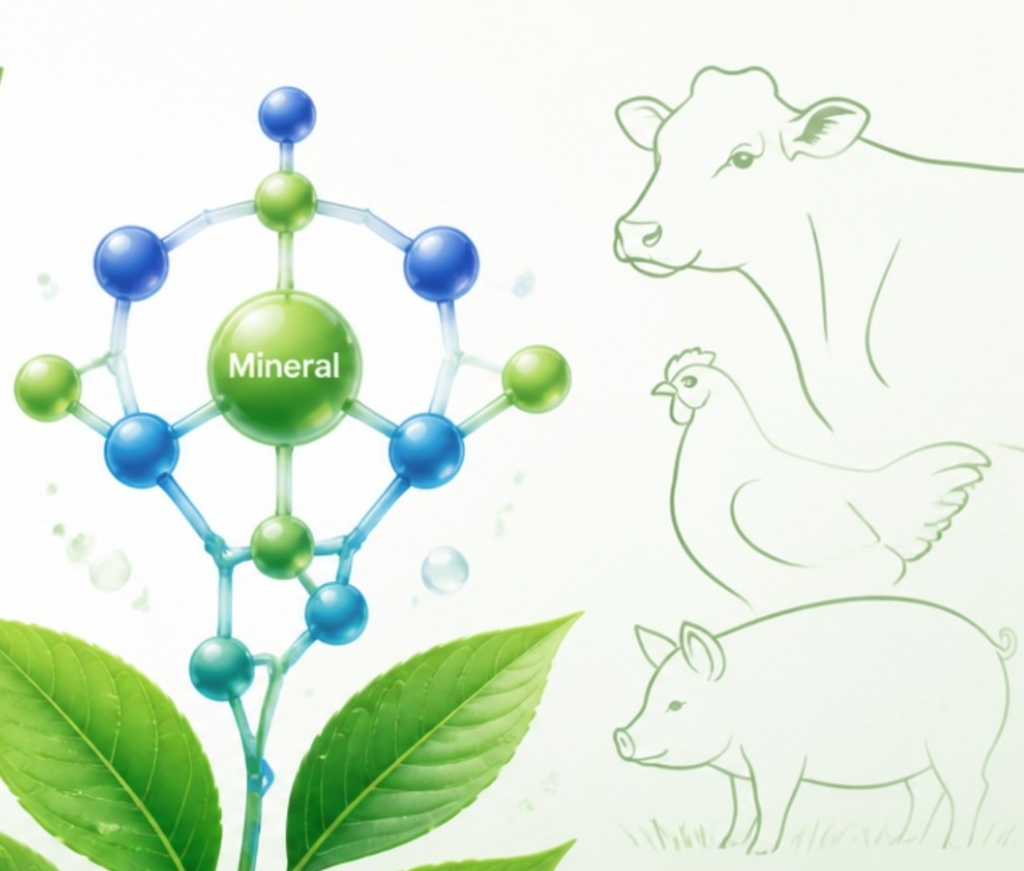
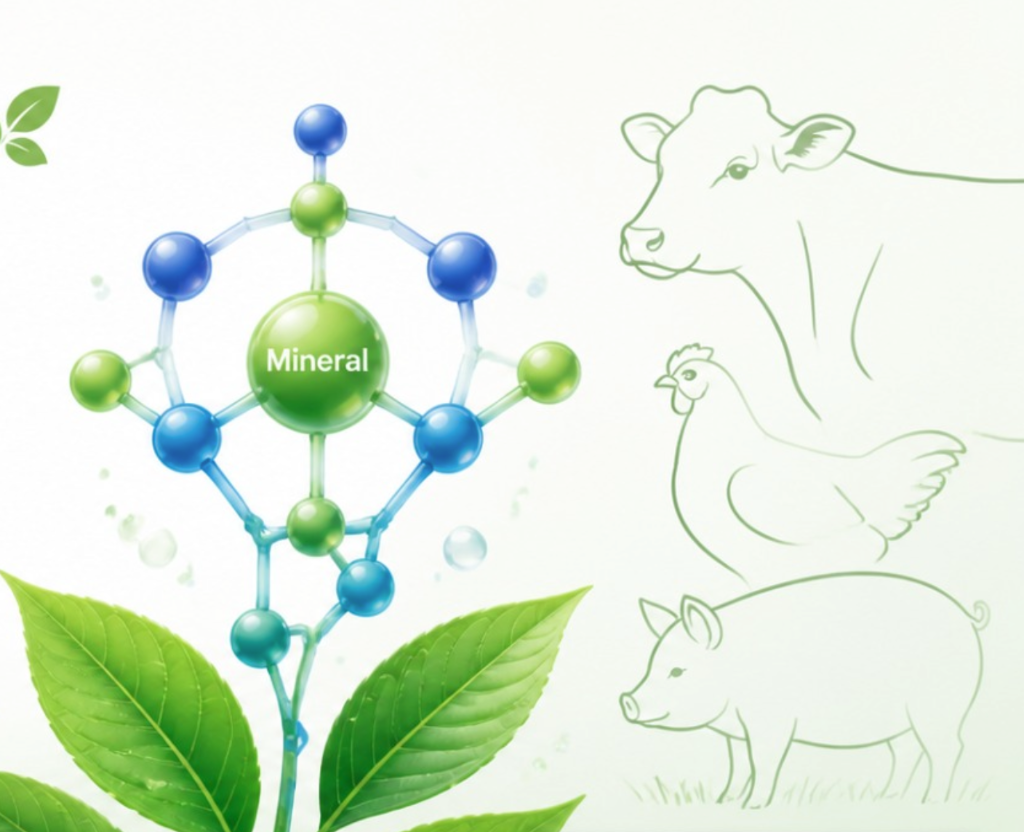
Update delivery supply chain image & content, update research uncropped images & fix card layout gap, swap MethioWiz and CholiWiz images

diff --git a/src/app/research/page.tsx b/src/app/research/page.tsx
@@ -33,7 +33,7 @@ const researchTopics: ResearchTopic[] = [
     challenge: "Modern feed industries demand high bioavailability, consistent efficacy, low residue, and sustainable manufacturing. Conventional extraction methods often fall short, leaving bioactives trapped, relying on toxic solvents, and wasting valuable phytochemical potential.",
     advantage: "Uses nutrient media with natural hydrogen-bond donors and acceptors (deep eutectic solvents) to mimic and accelerate natural biological transformations. This liberates hidden bioactive compounds without relying on toxic organic solvents.",
     recognition: "BIRAC / DBT ecosystem, and the Technology Development Board (TDB), Government of India.",
-    banner: "/images/anbiot.jpg"
+    banner: "/images/anbiot.png"
   },
   {
     id: 2,
@@ -45,7 +45,7 @@ const researchTopics: ResearchTopic[] = [
     advantage: "Employs plant and animal derived hydroxy amino acids as a natural ligand base. Combined with deep eutectic solvents, this green chelation workflow completely avoids downstream effluent generation while delivering superior diet stability.",
     recognition: "Technology Development Board (TDB), Govt. of India.",
     applications: "Poultry, dairy, and swine diets to maximize bioavailability.",
-    banner: "/images/green_technology.jpg"
+    banner: "/images/green_technology.png"
   },
   {
     id: 3,
@@ -121,7 +121,7 @@ export default function ResearchPage() {
               Research & Development
             </span>
             <h1 className="font-heading text-4xl lg:text-5xl font-bold leading-tight mb-4 text-white">
-              Biotechnology And Chemistry <span className="text-teal-400">Research Pipelines</span>
+              Synergy In Action: <br /><span className="text-teal-400">Animal Nutrition, Biotechnology & Chemistry</span>
             </h1>
             <p className="text-white/85 text-lg lg:text-xl leading-relaxed max-w-3xl font-light">
               Science-backed studies and platforms formulated for superior bioavailability, green chelation, and stable animal nutrition.
@@ -167,7 +167,7 @@ export default function ResearchPage() {
             </div>
 
             {/* Research Grid */}
-            <div className="grid grid-cols-1 sm:grid-cols-2 lg:grid-cols-3 gap-8 items-stretch">
+            <div className="grid grid-cols-1 sm:grid-cols-2 lg:grid-cols-3 gap-8 items-start">
               {filteredTopics.map((topic) => {
                 const isExpanded = expandedId === topic.id;
                 const emailSubject = encodeURIComponent(`Collaboration Inquiry: ${topic.title}`);
@@ -181,24 +181,24 @@ export default function ResearchPage() {
                     key={topic.id}
                     layout
                     transition={{ duration: 0.4, ease: easeOut }}
-                    className="border-2 border-slate-200 rounded-2xl bg-slate-50/50 hover:bg-slate-50/85 transition-colors duration-300 overflow-hidden shadow-xs hover:border-brand-orange/40 flex flex-col h-full group"
+                    className="border-2 border-slate-200 rounded-2xl bg-slate-50/50 hover:bg-slate-50/85 transition-colors duration-300 overflow-hidden shadow-xs hover:border-brand-orange/40 flex flex-col group"
                   >
                     {/* Card Header (Image/Banner + Title) */}
                     <div
                       onClick={() => toggleExpand(topic.id)}
-                      className="cursor-pointer select-none flex flex-col h-full flex-grow"
+                      className="cursor-pointer select-none flex flex-col"
                     >
-                      {/* Top: Product Image or Icon Container */}
-                      <div className="w-full aspect-video relative overflow-hidden bg-slate-100 border-b border-slate-200">
+                      {/* Top: Product Image or Icon Container - Full Uncropped View */}
+                      <div className="w-full aspect-[4/3] relative overflow-hidden bg-white border-b border-slate-200 p-3 flex items-center justify-center">
                         <img
                           src={topic.banner}
                           alt={`${topic.title} banner`}
-                          className="absolute inset-0 w-full h-full object-cover object-center group-hover:scale-102 transition-transform duration-500"
+                          className="w-full h-full object-contain object-center group-hover:scale-105 transition-transform duration-500"
                         />
                       </div>
 
                       {/* Content: Title */}
-                      <div className="p-6 flex flex-col gap-3 flex-grow">
+                      <div className="p-6 flex flex-col gap-3">
                         <h3 className="font-heading text-2xl font-black text-brand-navy group-hover:text-brand-orange transition-colors duration-300 leading-tight">
                           {topic.title}
                         </h3>
@@ -209,7 +209,7 @@ export default function ResearchPage() {
                           </p>
                         )}
 
-                        <div className="flex items-center gap-1.5 text-brand-orange text-sm font-bold mt-auto pt-2">
+                        <div className="flex items-center gap-1.5 text-brand-orange text-sm font-bold pt-2">
                           <span>{isExpanded ? "Show Less" : "Explore Dossier"}</span>
                           <motion.span
                             animate={{ rotate: isExpanded ? 180 : 0 }}
@@ -233,33 +233,33 @@ export default function ResearchPage() {
                           transition={{ duration: 0.4, ease: easeOut }}
                           className="overflow-hidden bg-white border-t-2 border-slate-200"
                         >
-                          <div className="p-6 space-y-6">
+                          <div className="p-6 space-y-5">
                             {/* Summary section */}
                             <div>
-                              <span className="text-xs font-bold uppercase text-teal-655 tracking-wider block mb-2">
+                              <span className="text-xs font-bold uppercase text-teal-655 tracking-wider block mb-1.5">
                                 Executive Summary
                               </span>
-                              <p className="text-slate-655 text-base leading-relaxed font-light">
+                              <p className="text-slate-655 text-sm lg:text-base leading-relaxed font-light">
                                 {topic.preview}
                               </p>
                             </div>
 
                             {/* Challenge section */}
                             <div>
-                              <span className="text-xs font-bold uppercase text-teal-655 tracking-wider block mb-2">
+                              <span className="text-xs font-bold uppercase text-teal-655 tracking-wider block mb-1.5">
                                 Core Challenge
                               </span>
-                              <p className="text-slate-655 text-base leading-relaxed font-light">
+                              <p className="text-slate-655 text-sm lg:text-base leading-relaxed font-light">
                                 {topic.challenge}
                               </p>
                             </div>
 
                             {/* Efficacy & Advantage section */}
                             <div>
-                              <span className="text-xs font-bold uppercase text-teal-655 tracking-wider block mb-2">
+                              <span className="text-xs font-bold uppercase text-teal-655 tracking-wider block mb-1.5">
                                 Mechanism & Advantage
                               </span>
-                              <p className="text-slate-655 text-base leading-relaxed font-light">
+                              <p className="text-slate-655 text-sm lg:text-base leading-relaxed font-light">
                                 {topic.advantage}
                               </p>
                             </div>
@@ -267,10 +267,10 @@ export default function ResearchPage() {
                             {/* Target Applications (if any) */}
                             {topic.applications && (
                               <div>
-                                <span className="text-xs font-bold uppercase text-teal-655 tracking-wider block mb-2">
+                                <span className="text-xs font-bold uppercase text-teal-655 tracking-wider block mb-1.5">
                                   Target Applications
                                 </span>
-                                <p className="text-slate-655 text-base leading-relaxed font-light">
+                                <p className="text-slate-655 text-sm lg:text-base leading-relaxed font-light">
                                   {topic.applications}
                                 </p>
                               </div>
@@ -278,21 +278,21 @@ export default function ResearchPage() {
 
                             {/* Recognition & Support (if any) */}
                             {topic.recognition && (
-                              <div className="bg-teal-50/70 border border-teal-150 p-4 rounded-xl">
-                                <span className="text-xs font-bold uppercase text-teal-800 tracking-wider block mb-1.5">
+                              <div className="bg-teal-50/70 border border-teal-150 p-3.5 rounded-xl">
+                                <span className="text-xs font-bold uppercase text-teal-800 tracking-wider block mb-1">
                                   Support & Recognition
                                 </span>
-                                <p className="text-teal-700 text-base leading-relaxed font-black">
+                                <p className="text-teal-700 text-sm lg:text-base leading-relaxed font-black">
                                   {topic.recognition}
                                 </p>
                               </div>
                             )}
 
                             {/* Mailto Inquiry Button */}
-                            <div className="pt-2">
+                            <div className="pt-1">
                               <a
                                 href={emailHref}
-                                className="w-full inline-flex items-center justify-center py-3 rounded-full border-2 border-teal-600 hover:border-teal-700 text-teal-650 hover:text-teal-750 font-bold text-base hover:bg-teal-50/50 transition-colors duration-300 text-center"
+                                className="w-full inline-flex items-center justify-center py-2.5 rounded-full border-2 border-teal-600 hover:border-teal-700 text-teal-650 hover:text-teal-750 font-bold text-sm hover:bg-teal-50/50 transition-colors duration-300 text-center"
                               >
                                 Inquire About Collaboration
                               </a>

diff --git a/src/app/products/page.tsx b/src/app/products/page.tsx
@@ -109,8 +109,8 @@ const productsData: Product[] = [
     ],
     inclusionRate: "Transition Dairy Animals: 20 g/animal/day\nEarly lactation Dairy Animals: 15-25 g/cow/day\nMid-late lactation Dairy Animals: 10-15 g/cow/day\nSmall Ruminants: 5-10 g/animal/day\nFor Dairy Feed: 0.5-2 kg/MT\n\nOr as per the recommendation of a Nutritionist",
     packSize: "25kg Bag",
-    icon: "/images/icon-methiowiz.png",
-    banner: "/images/banner-methiowiz.jpg"
+    icon: "/images/icon-choliwiz.png",
+    banner: "/images/banner-choliwiz.jpg"
   },
   {
     id: 6,
@@ -160,8 +160,8 @@ const productsData: Product[] = [
     ],
     inclusionRate: "Dairy Cattle & Buffalo: 25 g/head/day\nHigh-yield dairy cows & Buffaloes in transition: 25 - 50 g/head/day\n\nFeed inclusion:\nDairy Cow: 0.75 - 2 kg/MT of Dairy Feed\nGoat/Sheep: 2 - 5 g per animal per day\n\nOr as per the recommendation of a Nutritionist",
     packSize: "25kg Bag",
-    icon: "/images/icon-choliwiz.png",
-    banner: "/images/banner-choliwiz.jpg"
+    icon: "/images/icon-methiowiz.png",
+    banner: "/images/banner-methiowiz.jpg"
   },
   {
     id: 9,
@@ -411,7 +411,7 @@ export default function ProductsPage() {
           <div className="relative z-10 max-w-[1200px] mx-auto px-6 w-full text-center md:text-left">
             <span className="text-teal-400 text-xs md:text-sm font-semibold tracking-widest uppercase block mb-3">Our Offerings</span>
             <h1 className="font-heading text-4xl lg:text-5xl font-bold leading-tight mb-4 text-white">
-              Feed <span className="text-teal-400">Additives</span> and Solutions
+              Feed <span className="text-teal-400">Additives & Solutions</span>
             </h1>
             <p className="text-white/85 text-base lg:text-lg leading-relaxed max-w-3xl font-light">
               Science-backed solutions formulated for superior mold inhibition, pathogen control, and grain preservation.
@@ -538,13 +538,12 @@ export default function ProductsPage() {
                             {product.name}
                           </h3>
 
-                          <span className={`px-2.5 py-0.5 rounded-md text-[9px] font-bold uppercase tracking-wider border whitespace-nowrap ${
-                            product.category === "Mono-gastric"
-                              ? "bg-orange-50 border-orange-150 text-brand-orange"
-                              : product.category === "Ruminants"
-                                ? "bg-blue-50 border-blue-150 text-blue-700"
-                                : "bg-emerald-50 border-emerald-150 text-emerald-700"
-                          }`}>
+                          <span className={`px-2.5 py-0.5 rounded-md text-[9px] font-bold uppercase tracking-wider border whitespace-nowrap ${product.category === "Mono-gastric"
+                            ? "bg-orange-50 border-orange-150 text-brand-orange"
+                            : product.category === "Ruminants"
+                              ? "bg-blue-50 border-blue-150 text-blue-700"
+                              : "bg-emerald-50 border-emerald-150 text-emerald-700"
+                            }`}>
                             {product.category}
                           </span>
                         </div>

diff --git a/src/components/HeroVariants/VariantA.tsx b/src/components/HeroVariants/VariantA.tsx
@@ -23,8 +23,8 @@ const bgImages = [
 
 const stats = [
   { value: 30, suffix: "+", label: "Years of Research" },
-  { value: 12, suffix: "+", label: "Products" },
-  { value: 5, suffix: "+", label: "States Served" },
+  { value: 16, suffix: "+", label: "Products" },
+  { value: 22, suffix: "+", label: "Customers Served" },
   { value: 7, suffix: "+", label: "Awards Won" },
 ];
 
@@ -139,10 +139,10 @@ export default function HeroVariantA() {
             </AnimatePresence>
 
             <div className="flex flex-wrap gap-4 justify-center w-full mt-2">
-              <a 
-                href="https://youtu.be/-amOgNcjYNg?si=a5jh1ag8rOQ14QxX" 
-                target="_blank" 
-                rel="noopener noreferrer" 
+              <a
+                href="https://youtu.be/-amOgNcjYNg?si=a5jh1ag8rOQ14QxX"
+                target="_blank"
+                rel="noopener noreferrer"
                 className="inline-flex items-center gap-3 px-7 py-3 rounded-full text-sm font-semibold bg-white border-2 border-brand-orange text-brand-orange hover:bg-brand-orange hover:text-white shadow-md hover:shadow-xl transition-all duration-300 transform hover:-translate-y-0.5"
               >
                 <svg viewBox="0 0 24 24" className="w-4 h-4 fill-current">
@@ -173,11 +173,10 @@ export default function HeroVariantA() {
             <button
               key={i}
               onClick={() => setCurrentTag(i)}
-              className={`w-3.5 h-3.5 rounded-full transition-all duration-350 ${
-                isActive
-                  ? "bg-teal-400 scale-125 shadow-lg shadow-teal-400/50"
-                  : "bg-white/30 border border-white/10 hover:bg-white/60"
-              }`}
+              className={`w-3.5 h-3.5 rounded-full transition-all duration-350 ${isActive
+                ? "bg-teal-400 scale-125 shadow-lg shadow-teal-400/50"
+                : "bg-white/30 border border-white/10 hover:bg-white/60"
+                }`}
               aria-label={`Go to slide ${i + 1}`}
             />
           );

diff --git a/src/components/HowWeDo.tsx b/src/components/HowWeDo.tsx
@@ -34,7 +34,7 @@ const steps: Step[] = [
   {
     step: 4,
     title: "Delivery",
-    description: "Protected feed additive bio-actives en route to the site of absorption with enhanced bioavailability and targeted release systems.",
+    description: "The integrated supply chain moves feed additives from the Bengaluru facility through warehouses and varied transport networks to final delivery via direct or distributor channels.",
     image: "/images/process-delivery_crop.png",
   },
 ];
